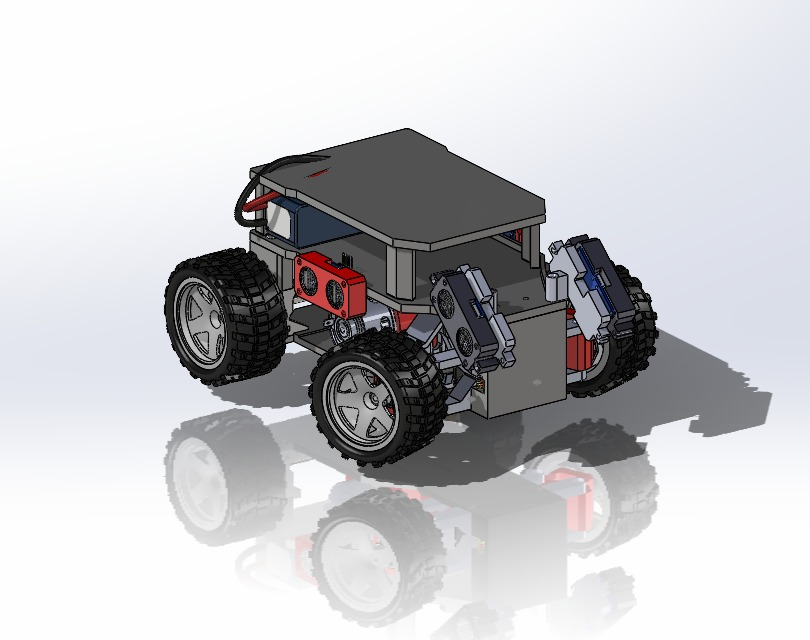
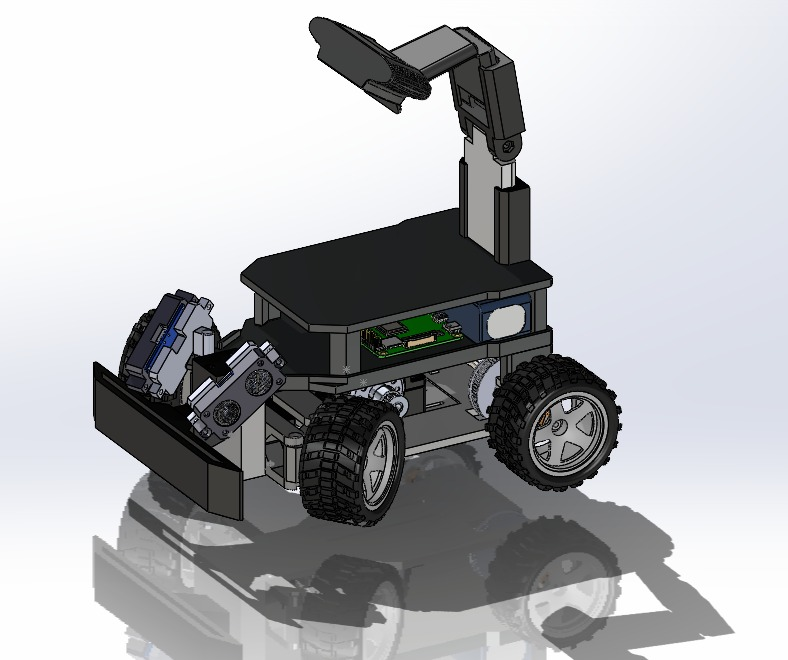
last changes
final details for the documentation

diff --git a/src/Raspberry Pi/main.py b/src/Raspberry Pi/main.py
@@ -1,13 +1,14 @@
 # -- coding: utf-8 --
-# Color detection with OpenCV (ASCII-only version) - multi targets, no BLUE, broader RED
+# Color detection with HSV trackbars (red and green tuning) - OpenCV
 
 import cv2
 import numpy as np
 import serial
 import time
-#ser = serial.Serial('/dev/ttyUSB0', 115200, timeout=1.0)
-#time.sleep(3)
-#ser.reset_input_buffer()
+
+ser = serial.Serial('/dev/ttyUSB0', 115200, timeout=1.0)
+time.sleep(3)
+ser.reset_input_buffer()
 
 def open_camera(index=0, width=640, height=480):
     cap = cv2.VideoCapture(index, cv2.CAP_V4L2)
@@ -15,32 +16,44 @@ def open_camera(index=0, width=640, height=480):
     cap.set(cv2.CAP_PROP_FRAME_HEIGHT, height)
     return cap
 
-cap = open_camera(0, 800, 600)
-# HSV ranges (OpenCV: H=0..179, S=0..255, V=0..255)
-# Red broadened to capture darker/mid reds
-RED_1  = (np.array([0,   110,  20]),  np.array([10,  255, 255]))
-RED_2  = (np.array([170, 110,  20]),  np.array([10, 255, 255]))
-
-# Green as before
-GREEN  = (np.array([35,  80,  70]),   np.array([85,  255, 255]))
-
+cap = open_camera(0, 1080, 640)
 kernel = np.ones((5, 5), np.uint8)
 
-def color_mask(hsv, rng):
-    low, high = rng
+# --- Trackbar initialization ---
+def nothing(x): pass
+
+cv2.namedWindow("Controls", cv2.WINDOW_NORMAL)
+cv2.resizeWindow("Controls", 500, 400)
+
+# Red HSV ranges
+cv2.createTrackbar("R_lowH", "Controls", 0,   179, nothing)
+cv2.createTrackbar("R_highH", "Controls", 5, 179, nothing)
+cv2.createTrackbar("R_lowS", "Controls", 110, 255, nothing)
+cv2.createTrackbar("R_highS", "Controls", 255, 255, nothing)
+cv2.createTrackbar("R_lowV", "Controls", 20,  255, nothing)
+cv2.createTrackbar("R_highV", "Controls", 255, 255, nothing)
+
+# Green HSV ranges
+cv2.createTrackbar("G_lowH", "Controls", 35, 179, nothing)
+cv2.createTrackbar("G_highH", "Controls", 85, 179, nothing)
+cv2.createTrackbar("G_lowS", "Controls", 80, 255, nothing)
+cv2.createTrackbar("G_highS", "Controls", 255, 255, nothing)
+cv2.createTrackbar("G_lowV", "Controls", 70, 255, nothing)
+cv2.createTrackbar("G_highV", "Controls", 255, 255, nothing)
+
+def color_mask(hsv, low, high):
     return cv2.inRange(hsv, low, high)
 
 def top_blobs(mask, max_n=3, min_area=800):
-    # Morphological cleaning
     mask = cv2.morphologyEx(mask, cv2.MORPH_OPEN, kernel, iterations=1)
     mask = cv2.morphologyEx(mask, cv2.MORPH_DILATE, kernel, iterations=1)
     cnts, _ = cv2.findContours(mask, cv2.RETR_EXTERNAL, cv2.CHAIN_APPROX_SIMPLE)
     if not cnts:
         return [], mask
-    # Filter and sort
     cnts = [c for c in cnts if cv2.contourArea(c) >= min_area]
     cnts.sort(key=cv2.contourArea, reverse=True)
     return cnts[:max_n], mask
+
 
 while True:
     ok, frame = cap.read()
@@ -51,42 +64,62 @@ while True:
     blurred = cv2.GaussianBlur(frame, (5, 5), 0)
     hsv = cv2.cvtColor(blurred, cv2.COLOR_BGR2HSV)
 
-    # Masks (NO BLUE)
-    m_r1 = color_mask(hsv, RED_1)
-    m_r2 = color_mask(hsv, RED_2)
-    mask_red = cv2.bitwise_or(m_r1, m_r2)
-    mask_green = color_mask(hsv, GREEN)
+    # --- Read trackbar values dynamically ---
+    r_lh = cv2.getTrackbarPos("R_lowH", "Controls")
+    r_hh = cv2.getTrackbarPos("R_highH", "Controls")
+    r_ls = cv2.getTrackbarPos("R_lowS", "Controls")
+    r_hs = cv2.getTrackbarPos("R_highS", "Controls")
+    r_lv = cv2.getTrackbarPos("R_lowV", "Controls")
+    r_hv = cv2.getTrackbarPos("R_highV", "Controls")
 
-    # Collect detections (max 3 total)
+    g_lh = cv2.getTrackbarPos("G_lowH", "Controls")
+    g_hh = cv2.getTrackbarPos("G_highH", "Controls")
+    g_ls = cv2.getTrackbarPos("G_lowS", "Controls")
+    g_hs = cv2.getTrackbarPos("G_highS", "Controls")
+    g_lv = cv2.getTrackbarPos("G_lowV", "Controls")
+    g_hv = cv2.getTrackbarPos("G_highV", "Controls")
+
+    # --- Build masks ---
+    lower_red = np.array([r_lh, r_ls, r_lv])
+    upper_red = np.array([r_hh, r_hs, r_hv])
+    mask_red = color_mask(hsv, lower_red, upper_red)
+
+    lower_green = np.array([g_lh, g_ls, g_lv])
+    upper_green = np.array([g_hh, g_hs, g_hv])
+    mask_green = color_mask(hsv, lower_green, upper_green)
+
     detections = []
 
     cnts_r, _ = top_blobs(mask_red, max_n=3, min_area=800)
     for c in cnts_r:
         x, y, w, h = cv2.boundingRect(c)
         area = cv2.contourArea(c)
-        detections.append((1, area, (x, y, w, h), (0, 0, 255)))#RED
+        detections.append((1, area, (x, y, w, h), (0, 0, 255)))
 
     cnts_g, _ = top_blobs(mask_green, max_n=3, min_area=800)
     for c in cnts_g:
         x, y, w, h = cv2.boundingRect(c)
         area = cv2.contourArea(c)
-        detections.append((0, area, (x, y, w, h), (0, 255, 0)))#GREEN
+        detections.append((0, area, (x, y, w, h), (0, 255, 0)))
 
-    # Sort by area, keep top 3
-    detections.sort(key=lambda x: x[1], reverse=True)
-    detections = detections[:3]
+    # --- Sort and pick only the largest area (closest object) ---
+    if detections:
+        detections.sort(key=lambda x: x[1], reverse=True)
+        name, area, (x, y, w, h), bgr = detections[0]
 
-    out = frame.copy()
-    # Draw detections
-    for idx, (name, area, (x, y, w, h), bgr) in enumerate(detections, start=1):
+        out = frame.copy()
         cv2.rectangle(out, (x, y), (x + w, y + h), bgr, 2)
-        cv2.putText(out, f"{idx}:{name} ({int(area)})", (x, max(20, y - 10)),
+        cv2.putText(out, f"{name} ({int(area)})", (x, max(20, y - 10)),
                     cv2.FONT_HERSHEY_SIMPLEX, 0.7, bgr, 2, cv2.LINE_AA)
+
         print(f"{name}--{x:03d}--{w:03d}")
-        #ser.write(f'{name}{x:03d}{w:03d}\n'.encode('utf-8'))
+        ser.write(f'{name}{x:03d}{w:03d}\n'.encode('utf-8'))
+    else:
+        out = frame.copy()
+        print("No object detected")
+        ser.write('NOBJ\n'.encode('utf-8'))
+
     cv2.imshow("color_detection", out)
-    #cv2.imshow("mask_red", mask_red)
-    #cv2.imshow("mask_green", mask_green)
 
     k = cv2.waitKey(1) & 0xFF
     if k == ord('q') or k == 27:
@@ -94,4 +127,4 @@ while True:
 
 cap.release()
 cv2.destroyAllWindows()
-#ser.close
+ser.close()

diff --git a/src/Releases/README.md b/src/Releases/README.md
@@ -125,6 +125,69 @@ This iteration integrates a **6-axis IMU (MPU6050)** combining gyroscope and acc
   DRV8871 **active brake** drives both inputs (brief pulse) to dissipate kinetic energy, enabling a crisp stop.
 
 ---
+# Final Version — Open-Challenge.ino
+
+This final version represents the **most complete autonomous control system** for Team Delta’s robot.  
+It integrates all major hardware subsystems — motor, servo, sensors, and IMU — into a unified control architecture with **PID-based velocity regulation** and **sensor-fusion steering**.
+
+---
+
+## Control Architecture Overview
+
+### 1) Motion Control (PID Feedback)
+- Encoder readings (pins **SA=27**, **SB=14**) compute **wheel RPM**.  
+- A **PID controller** adjusts the motor PWM output (`motorPin = 12`) to maintain a target RPM (`Setpoint = 1300`).  
+- Gains (empirical):
+  ```
+  Kp = 0.54, Ki = 0.05, Kd = 0.0125
+  ```
+- Output clamped to **10–255** to avoid stalling/overdrive.
+
+### 2) Steering via Ultrasonic Sensors
+- Two HC-SR04 sensors (`trigPin1/echoPin1` right, `trigPin2/echoPin2` left).  
+- Difference drives the steering servo:
+  ```cpp
+  int diff = d1 - d2;
+  int servoAngle = map(diff, -15, 15, 47, 127);
+  serv.write(constrain(servoAngle, 50, 130));
+  ```
+- Median-of-3 measurement for noise rejection.
+
+### 3) IMU Yaw Integration
+- **MPU6050** provides `gz` (deg/s); integrated with real `dt` to estimate **yaw**:
+  ```cpp
+  yaw += (gz / 131.0) * dt;
+  ```
+- Safety stop when yaw exceeds thresholds while path is straight (`diff < 5`):
+  - Center servo.  
+  - `ledcWrite(motorPin, 0);`  
+  - Enter hold loop.
+
+### 4) Startup & Safety
+- Waits for **BUTTON_PIN = 17** (LOW) before arming.  
+- DRV8871 direction pin (`otherPin = 13`) held LOW for forward; PWM on `motorPin`.
+
+---
+
+## Key Software Elements
+
+- **Encoder velocity low-pass filter** (≈25 Hz):
+  ```cpp
+  v1Filt = 0.854 * v1Filt + 0.0728 * v1 + 0.0728 * v1Prev;
+  ```
+- **Ultrasonic read**: median of three with timeouts to avoid spikes.  
+- **PID loop** runs continuously; PWM updated via `ledcWrite`.  
+- **Permanent stop** conditions on excessive yaw.  
+- **Button-gated startup** to prevent unintended motion.
+
+---
+
+## Related Work
+
+For earlier development stages (motion-only, PID calibration tests, Pixy2 vision, IMU yaw reset), see the  
+**[Releases documentation](../../Releases/README.md)** in `src/Releases/`.
+
+---
 
 Each code version represents a **milestone** in the robot’s autonomous development —  
 progressing from **manual timing** to **sensor fusion and vision-based control**, building a strong foundation for the final **competition-ready system**.

diff --git a/t-photos/README.md b/t-photos/README.md
@@ -3,12 +3,12 @@
 
 ## Official Photo
 
-![Official Photo](official.jpg)
+![Official Photo](tphoto.jpg)
 
 ---
 
 ## Funny Photo
 
-![Funny Photo](funny.jpg)
+![Funny Photo](../other/photos/tphotos.jpg)
 
 ---
